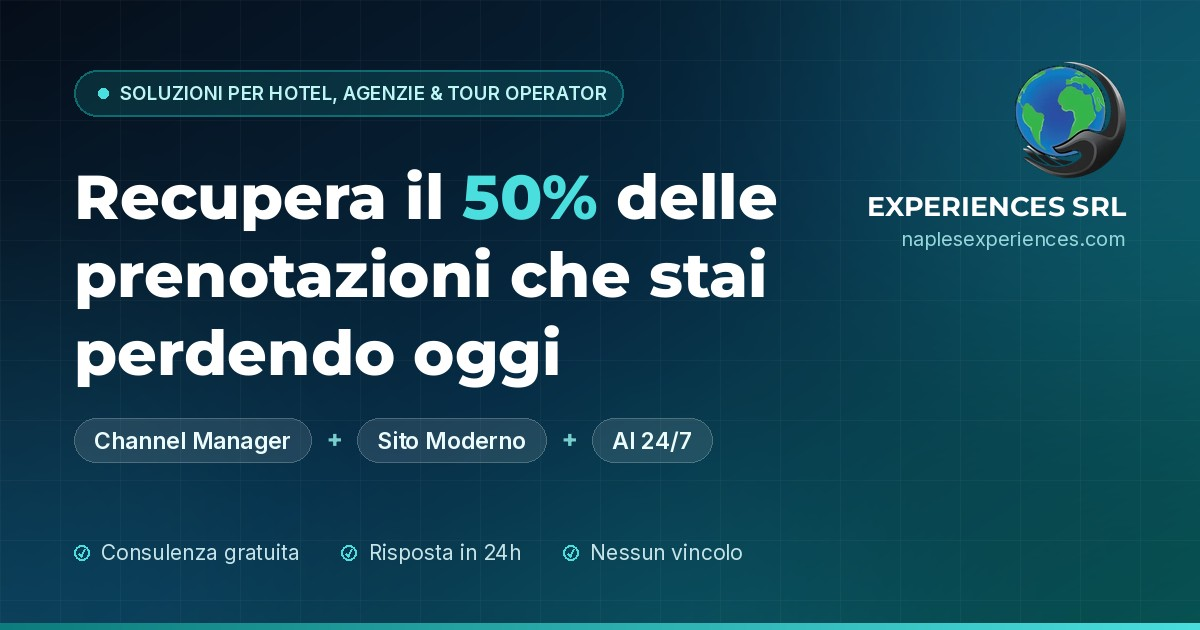
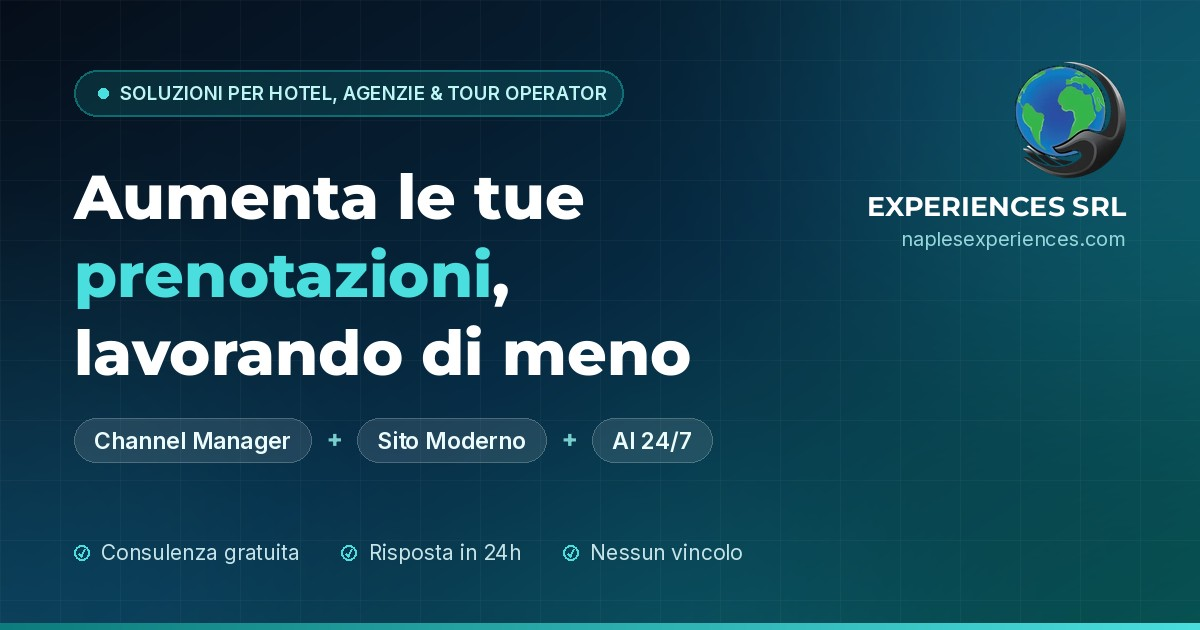
Change the homepage headline
"Recupera il 50% delle prenotazioni che stai perdendo oggi" becomes
"Aumenta le tue prenotazioni, lavorando di meno", keeping "prenotazioni"
on the .text-gradient span so the accent colour still lands on the key
word.

The Open Graph preview carried the old copy baked into the JPEG, so it
is regenerated to match: the full line runs 964px against roughly 790px
of usable width beside the logo, so it wraps to three lines with
"prenotazioni" in cyan. 93 KB, still 1200x630.

Claude-Session: https://claude.ai/code/session_01ANzmL5fvZ7mZTBCJxik2aX

Changed region(s): [[0.0617, 0.3921, 0.6475, 0.6333], [0.0617, 0.2714, 0.6475, 0.3619]]

diff --git a/experiences-theme/style.css b/experiences-theme/style.css
@@ -3,8 +3,8 @@ Theme Name: Experiences Srl
 Theme URI: https://www.naplesexperiences.com
 Author: Experiences Srl
 Author URI: https://www.naplesexperiences.com
-Description: Tema WordPress professionale per Experiences Srl – Soluzioni Digitali per il Turismo. v2.3.3: nuova immagine Open Graph (anteprima condivisione) ispirata alla hero della homepage + tag OG anche su articoli e pagine. v2.3.2: fix "Tutti gli articoli" che reindirizzava alla home (helper experiences_blog_archive_url + auto-creazione pagina Blog come page_for_posts). v2.3.1: postille pricing.
-Version: 2.3.3
+Description: Tema WordPress professionale per Experiences Srl – Soluzioni Digitali per il Turismo. v2.3.4: nuova headline homepage "Aumenta le tue prenotazioni, lavorando di meno". v2.3.3: immagine Open Graph (anteprima condivisione) ispirata alla hero della homepage + tag OG anche su articoli e pagine. v2.3.2: fix "Tutti gli articoli" che reindirizzava alla home (helper experiences_blog_archive_url + auto-creazione pagina Blog come page_for_posts). v2.3.1: postille pricing.
+Version: 2.3.4
 Requires at least: 6.0
 Tested up to: 6.7
 Requires PHP: 7.4

diff --git a/experiences-theme/front-page.php b/experiences-theme/front-page.php
@@ -35,8 +35,8 @@ get_header();
                     </div>
                     
                     <h1 class="font-heading text-4xl sm:text-5xl lg:text-6xl font-bold text-white leading-tight mb-6">
-                        Recupera il <span class="text-gradient">50% delle prenotazioni</span>
-                        <span class="block mt-2">che stai perdendo oggi</span>
+                        Aumenta le tue <span class="text-gradient">prenotazioni</span>,
+                        <span class="block mt-2">lavorando di meno</span>
                     </h1>
 
                     <p class="text-gray-300 text-lg lg:text-xl mb-8 max-w-xl mx-auto lg:mx-0 leading-relaxed">
